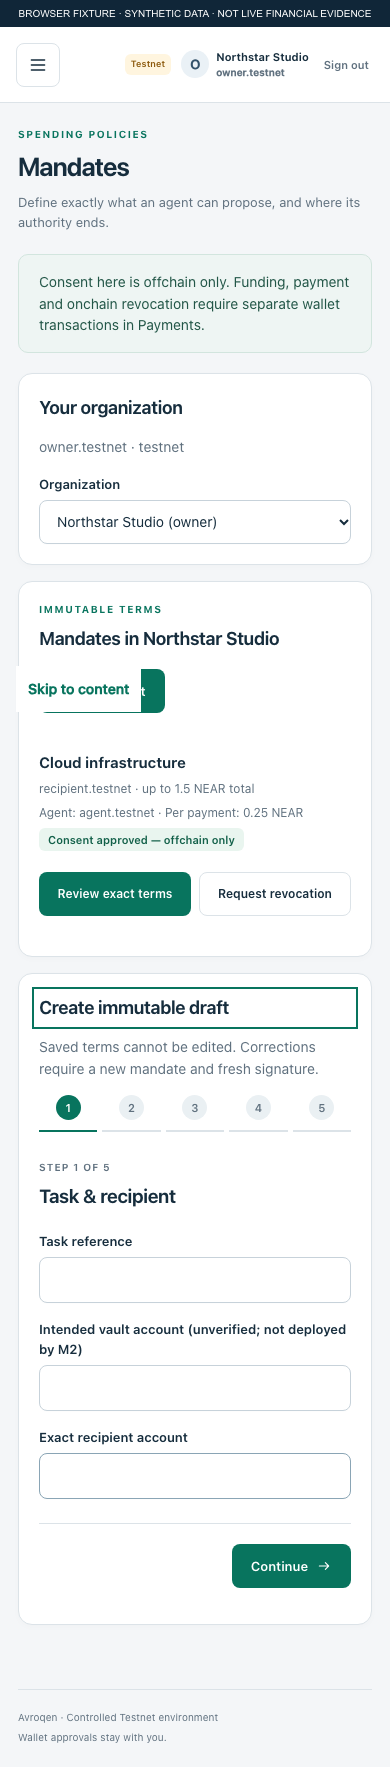
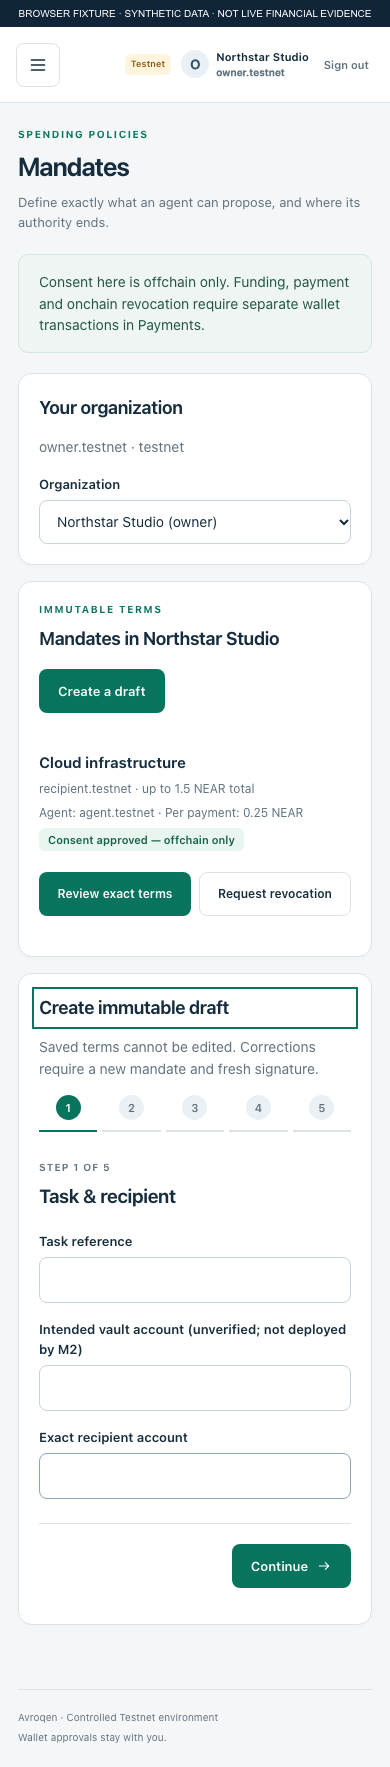
Keep skip link hidden until keyboard focus and finalize visual evidence

Changed region(s): [[0.0615, 0.3735, 0.3692, 0.4046]]

diff --git a/tests/e2e/design-system.spec.ts b/tests/e2e/design-system.spec.ts
@@ -83,6 +83,13 @@ test("mobile drawer traps keyboard focus, closes on Escape and restores trigger"
   await page.setViewportSize({ width: 390, height: 844 });
   await uiFixture(page);
   await openScreen(page, "wallet");
+  const skip = page.getByRole("link", { name: "Skip to content" });
+  await expect(skip).toHaveCSS("opacity", "0");
+  await skip.focus();
+  await expect(skip).toHaveCSS("opacity", "1");
+  await page.keyboard.press("Enter");
+  await expect(page.locator("#workspace-content")).toBeFocused();
+  await expect(skip).toHaveCSS("opacity", "0");
   const trigger = page.getByRole("button", { name: "Open navigation" });
   await trigger.focus();
   await page.keyboard.press("Enter");

diff --git a/apps/web/app/styles.css b/apps/web/app/styles.css
@@ -430,9 +430,13 @@ hr {
   z-index: 30;
   background: white;
   padding: 12px;
+  opacity: 0;
+  pointer-events: none;
 }
 .skip-link:focus {
   top: 10px;
+  opacity: 1;
+  pointer-events: auto;
 }
 .shell-error {
   margin: 16px 32px;

diff --git a/docs/M8_UX_REDESIGN_REPORT.md b/docs/M8_UX_REDESIGN_REPORT.md
@@ -1,6 +1,6 @@
 # M8 UI/UX redesign report
 
-Date: 2026-11-03. Branch: `feat/m8-integrated-acceptance`. PR #12 was found already merged externally at `0d5852e7038ad8d6114b6be508533d48a2ce6b86`; this redesign requires a successor draft PR targeting staging. This is frontend experience work, not deployment or full live acceptance.
+Date: 2026-11-03. Branch: `feat/m8-integrated-acceptance`. PR #12 was found already merged externally at `0d5852e7038ad8d6114b6be508533d48a2ce6b86`; this redesign is delivered in successor draft PR #13 targeting staging. The identical pre-redesign staging tree was reconciled into the feature history without changing staging or main. This is frontend experience work, not deployment or full live acceptance.
 
 ## Implementation
 
@@ -31,7 +31,7 @@ Total: **546 tests** (373 application/database, 133 browser, 40 Rust/sandbox), z
 
 Browser checks cover seven routes at 1440/768/390/320px, all seven in signed-out/loading/empty/error states, drawer Tab/Escape/focus, wizard validation/back/exact-value retention, tenant observation clearing and logout failure/success/CSRF. Axe WCAG 2 A/AA and 2.1 AA checks passed in 28 populated route/width combinations and six guided states. These scans do not prove all accessibility requirements or real-device behavior.
 
-Development failures corrected before the final run: explicit step wrappers prevent formatter-driven fragment flattening; native drawer focus escape is corrected with Tab wrapping; selectors use accessible combobox roles. No security assertions or tests were disabled.
+Development failures corrected before the final run: explicit step wrappers prevent formatter-driven fragment flattening; native drawer focus escape is corrected with Tab wrapping; selectors use accessible combobox roles; the offscreen skip-link is visually hidden until focused, including scrolled full-page captures, with a keyboard regression. No security assertions or tests were disabled.
 
 ## Rendered visual evidence
 
@@ -54,7 +54,7 @@ Inspection led to collapsing evidence lookup and technical IDs after selection, 
 
 ## Security review and remaining acceptance
 
-Diff is limited to frontend, tests, test dependency and documentation/evidence. Backend, database schema, Rust and wallet transaction reconstruction are unchanged. The smoke assertion now matches the truthful public-authorization disclosure while retaining the API payments-disabled assertion. Original-owner and tenant boundaries, independent evidence, distinct payment approval, receipt confirmation, unknown quarantine, pause-only guardian authority and incident integrity remain enforced by existing services/contracts. Dashboard guidance does not grant authority. Self-review is not an independent security assessment.
+Diff is limited to frontend, tests/smoke assertion, test dependency and documentation/evidence. Backend, database schema, Rust and wallet transaction reconstruction are unchanged. The smoke assertion now matches the truthful public-authorization disclosure while retaining the API payments-disabled assertion. Original-owner and tenant boundaries, independent evidence, distinct payment approval, receipt confirmation, unknown quarantine, pause-only guardian authority and incident integrity remain enforced by existing services/contracts. Dashboard guidance does not grant authority. Self-review is not an independent security assessment.
 
 Historical owner-confirmed M1/M2 tests remain historical; this redesign has not been physically tested on Android or with genuine wallet/source flows. Pending: coordinated desktop and physical Android integrated acceptance, screen-reader/manual accessibility review, genuine independent verifier evidence/signing and separately authorized public Testnet receipt verification. iOS remains deferred. Responsive viewport tests are not device acceptance. Dark mode is intentionally not introduced. No deployment, funding, transaction, key rotation or visibility change is authorized or performed.
 
